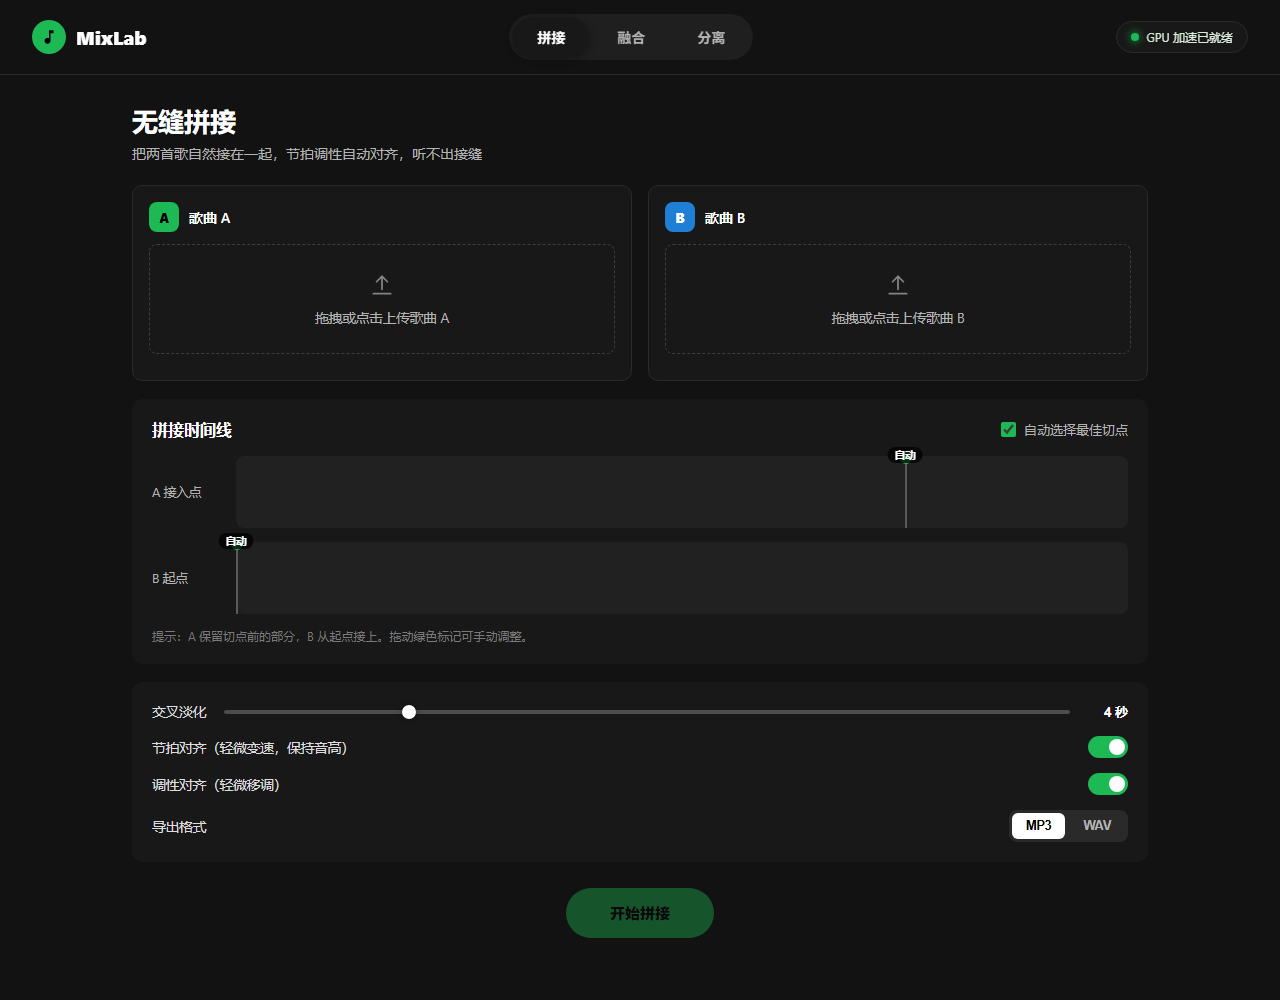
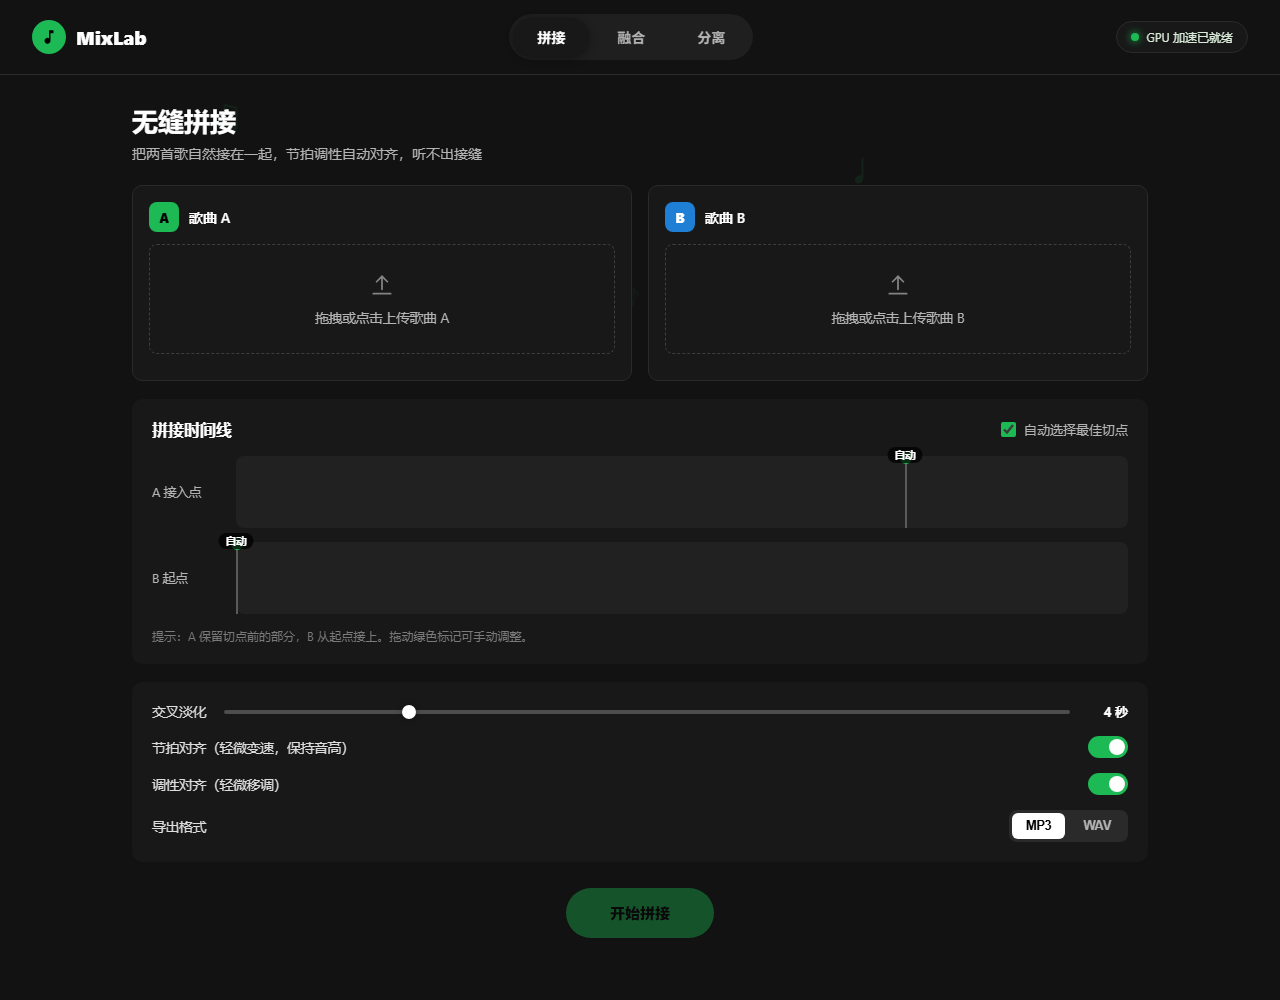
Add ambient lyric bar with 38 Cantonese lyrics and floating music notes

diff --git a/frontend/app.js b/frontend/app.js
@@ -126,6 +126,7 @@ function bindTimelineDrag(canvasId, setter, min, max) {
 
   canvas.addEventListener("mousedown", (e) => {
     if (state.autoCut) return;
+    setBusy(true);
     dragging = true;
     canvas.style.cursor = "grabbing";
     move(e);
@@ -133,6 +134,7 @@ function bindTimelineDrag(canvasId, setter, min, max) {
   window.addEventListener("mousemove", move);
   window.addEventListener("mouseup", () => {
     if (!dragging) return;
+    setBusy(false);
     dragging = false;
     canvas.style.cursor = "crosshair";
   });
@@ -174,6 +176,7 @@ function bindDropzone(slot, ui) {
 }
 
 async function uploadTrack(slot, file) {
+  setBusy(true);
   const fd = new FormData();
   fd.append("file", file);
   try {
@@ -188,6 +191,8 @@ async function uploadTrack(slot, file) {
     updateRunBtns();
   } catch (err) {
     alert(`上传失败：${err.message}`);
+  } finally {
+    setBusy(false);
   }
 }
 
@@ -256,6 +261,7 @@ function bindSepUpload() {
 }
 
 async function uploadSep(file) {
+  setBusy(true);
   const fd = new FormData();
   fd.append("file", file);
   try {
@@ -280,6 +286,8 @@ async function uploadSep(file) {
     updateRunBtns();
   } catch (err) {
     alert(`上传失败：${err.message}`);
+  } finally {
+    setBusy(false);
   }
 }
 
@@ -292,6 +300,7 @@ function updateRunBtns() {
 
 /* ================= 任务轮询 ================= */
 async function runTask(page, endpoint, payload, ui) {
+  setBusy(true);
   state.running[page] = true;
   updateRunBtns();
   $(ui.progress).hidden = false;
@@ -316,6 +325,7 @@ async function runTask(page, endpoint, payload, ui) {
   } finally {
     state.running[page] = false;
     updateRunBtns();
+    setBusy(false);
   }
 }
 
@@ -524,9 +534,151 @@ function init() {
   $("sep-btn").addEventListener("click", runSeparate);
 
   window.addEventListener("resize", redrawAllWaves);
+  window.addEventListener("scroll", () => {
+    const nearBottom = window.innerHeight + window.scrollY > document.body.scrollHeight - 260;
+    document.body.classList.toggle("scrolled-bottom", nearBottom);
+  });
   updateFusionUI();
   updateRunBtns();
   checkHealth();
+  initLyricBg();
+  startLyrics();
+}
+
+/* ================= 背景氛围：歌词 + 音符 ================= */
+
+const LYRICS = [
+  { text: "秋天该很好，你若尚在场。", song: "春夏秋冬" },
+  { text: "尤其这新婚，就像玩牺牲。想过抢新娘，我差点讲真。", song: "不甘心" },
+  { text: "如能忘掉渴望，岁月长，衣裳薄。无论于什么角落，不假设你或会在旁，我也可畅游异国，放心吃喝。", song: "再见二丁目" },
+  { text: "从未跟你饮过冰，零度看风景。", song: "偿还" },
+  { text: "谁人曾照顾过我的感受，待我温柔吻过我伤口。能得到的安慰是失恋者得救后，很感激忠诚的狗。", song: "七友" },
+  { text: "阶砖不会拒绝磨蚀，窗花不可幽禁落霞，有感情就能一生一世吗？", song: "喜帖街" },
+  { text: "你是千堆雪，我是长街，怕日出一到，彼此瓦解。", song: "邮差" },
+  { text: "在有生的瞬间能遇到你，竟花光所有运气。", song: "明年今日" },
+  { text: "留我做个垃圾，长留恋于你家。从沉溺中结疤，再发芽。", song: "垃圾" },
+  { text: "意乱情迷极易流逝，难耐这夜春光浪费。", song: "春光乍泄" },
+  { text: "青春的快餐只要求快不理哪一家，哪有玩味的空档来欣赏细致淡雅。", song: "苦瓜" },
+  { text: "这个世界最坏罪名，叫太易动情，但我喜欢这罪名。", song: "无人之境" },
+  { text: "一起约好过年，缺席人物多于往年，只能齐集仍在的脸，赶快地拍下照片。在最坏时候，懂得吃，舍得穿，不会乱。", song: "小团圆" },
+  { text: "其实我再去爱惜你又有何用，难道这次我抱紧你未必落空。", song: "暗涌" },
+  { text: "难敌这纷扰世态，为理想或求生在捱。没完没了各有需要把青春贱卖，也爱用整晚畅论人家感情最后为何完结的道理。", song: "不吐不快" },
+  { text: "就算经过茫茫悠长岁月也会记住那张脸，明日将告别校园跟你道别时，我怕会暗暗鼻酸。", song: "单恋高校" },
+  { text: "何事落到这收场，枯死在你的手上。", song: "够钟" },
+  { text: "知你曾花心，爱着你很惊心。却又各开心，得我愿意受你所困。我为何肯等个旧人，还错过多少的亲吻。", song: "你知道我在等你们分手吗" },
+  { text: "我间中饮醉酒很喜欢自由，\n常犯错爱说谎但总会内疚，\n遇过很多的损友学到贪新厌旧，\n为何还喜欢我我这种无赖。\n是话你蠢还是很伟大，\n在座每位都将我踩口碑有多坏，\n但你亦永远不见怪。", song: "无赖" },
+  { text: "即使身边世事再毫无道理，与你永远亦连在一起，你不放下我，我不放下你，我想确定每日挽着同样的手臂。", song: "相依为命" },
+  { text: "不介意孤独，比爱你舒服，你是前度，何必听我吠。", song: "献世" },
+  { text: "遥远的她不可以再归家，我在梦里却始终只有她。", song: "遥远的她" },
+  { text: "互相祝福心软之际，或者准我吻下去。我甘于当副车，也是快乐着唏嘘，彼此这么了解，难怪注定似兄妹一对。", song: "钟无艳" },
+  { text: "游客是你，风景是我，无法避免，让你经过。", song: "稀客" },
+  { text: "剪影的你轮廓太好看，凝住眼泪才敢细看。", song: "约定" },
+  { text: "徘徊在似苦又甜之间，望不穿这暧昧的眼，爱或情借来填一晚，终须都归还，无谓多贪。", song: "暧昧" },
+  { text: "让我感谢你，赠我空欢喜，记得要忘记。", song: "花事了" },
+  { text: "我仿似跟你热恋过，和你未似现在这接近，思想开始过份。", song: "梦中人" },
+  { text: "明知爱这种男孩子，也许只能如此，但我会成为你最牵挂的一个女子。朝朝暮暮让你猜想如何驯服我，若果亲手抱住，或者不必如此。", song: "野孩子" },
+  { text: "我就算是拥抱过后回头没海岸，也换来见闻观光。我就算不再相信北极有曙光，行云流水亦爱看。", song: "如果东京不快乐" },
+  { text: "我不止三岁，我当然识趣。", song: "知情识趣" },
+  { text: "想与你开始从头开始，彼此的痛遥远但相似。", song: "有故事的人" },
+  { text: "这一生也在进取，这分钟却挂念谁。", song: "追" },
+  { text: "从眉梢中感觉到，从眼角看不到，彷佛已是最直接的裸露。", song: "有心人" },
+  { text: "能同途偶遇在这星球上，燃亮飘渺人生，我多么够运。无人如你逗留我思潮上，从没再疑问，这个世界好得很。", song: "春夏秋冬" },
+  { text: "为何我心分秒想着过去，为何你一点都不记起，情义已失去恩爱都失去，我却为何偏偏喜欢你。", song: "偏偏喜欢你" },
+  { text: "男女朋友无法迁就，越拖越久越想分手，谁对谁错谁太丑陋，嘈杂场面宁愿退后。", song: "Won't You Stand" },
+  { text: "我没有为你伤春悲秋不配有憾事，你没有共我踏过万里不够剧情延续故事。", song: "春秋" },
+];
+
+const LYRIC_SHOW_MS = 3000;
+let lyricIndex = 0;
+let lyricTimer = null;
+
+function startLyrics() {
+  setTimeout(showLyric, 1200);
+}
+
+function showLyric() {
+  const item = LYRICS[lyricIndex % LYRICS.length];
+  lyricIndex += 1;
+  const bar = $("lyric-bar");
+  bar.classList.remove("show");
+  clearTimeout(lyricTimer);
+  setTimeout(() => {
+    if (document.body.classList.contains("busy")) {
+      // 忙碌时先不打扰，等空闲后再继续
+      lyricTimer = setTimeout(showLyric, LYRIC_SHOW_MS);
+      return;
+    }
+    $("lyric-text").textContent = item.text;
+    $("lyric-song").textContent = `《${item.song}》`;
+    bar.classList.add("show");
+    lyricTimer = setTimeout(() => {
+      bar.classList.remove("show");
+      lyricTimer = setTimeout(showLyric, 400);
+    }, LYRIC_SHOW_MS);
+  }, 400);
+}
+
+let busyCount = 0;
+
+function setBusy(on) {
+  busyCount = Math.max(0, busyCount + (on ? 1 : -1));
+  document.body.classList.toggle("busy", busyCount > 0);
+}
+
+function initLyricBg() {
+  const canvas = $("lyric-bg");
+  if (!canvas) return;
+  const ctx = canvas.getContext("2d");
+  if (!ctx) return;
+  const GLYPHS = ["♪", "♫", "♬", "♩"];
+  let W = 0;
+  let H = 0;
+  const parts = [];
+
+  function resize() {
+    const dpr = window.devicePixelRatio || 1;
+    W = window.innerWidth;
+    H = window.innerHeight;
+    canvas.width = W * dpr;
+    canvas.height = H * dpr;
+    ctx.setTransform(dpr, 0, 0, dpr, 0, 0);
+  }
+
+  function spawn(initial) {
+    return {
+      x: Math.random() * W,
+      y: initial ? Math.random() * H : H + 20 + Math.random() * 100,
+      size: 14 + Math.random() * 24,
+      speed: 0.15 + Math.random() * 0.35,
+      phase: Math.random() * Math.PI * 2,
+      alpha: 0.05 + Math.random() * 0.08,
+      glyph: GLYPHS[Math.floor(Math.random() * GLYPHS.length)],
+    };
+  }
+
+  function tick() {
+    ctx.clearRect(0, 0, W, H);
+    for (let i = 0; i < parts.length; i++) {
+      const p = parts[i];
+      p.y -= p.speed;
+      p.phase += 0.012;
+      const x = p.x + Math.sin(p.phase) * 14;
+      const fadeIn = Math.max(0, Math.min(1, (H - p.y) / 140));
+      const fadeOut = Math.max(0, Math.min(1, (p.y - 24) / 100));
+      ctx.globalAlpha = p.alpha * Math.min(fadeIn, fadeOut);
+      ctx.font = `${p.size}px "Segoe UI Symbol", "Microsoft YaHei", serif`;
+      ctx.fillStyle = "#1db954";
+      ctx.fillText(p.glyph, x, p.y);
+      if (p.y < -30) parts[i] = spawn(false);
+    }
+    ctx.globalAlpha = 1;
+    requestAnimationFrame(tick);
+  }
+
+  resize();
+  window.addEventListener("resize", resize);
+  for (let i = 0; i < 11; i++) parts.push(spawn(true));
+  tick();
 }
 
 init();

diff --git a/frontend/styles.css b/frontend/styles.css
@@ -22,6 +22,18 @@ body {
   -webkit-font-smoothing: antialiased;
 }
 
+/* ---------- 背景音乐氛围层 ---------- */
+#lyric-bg {
+  position: fixed;
+  inset: 0;
+  z-index: 0;
+  pointer-events: none;
+  transition: opacity 0.5s ease;
+}
+
+.container { position: relative; z-index: 1; max-width: 1080px; margin: 0 auto; padding: 28px 32px 70px; }
+.footer { position: relative; z-index: 1; text-align: center; padding: 26px 0 40px; color: #6a6a6a; font-size: 12px; }
+
 /* ---------- 顶部导航 ---------- */
 .topbar {
   position: sticky;
@@ -77,7 +89,6 @@ body {
 .status-chip.err .status-dot { background: var(--danger); }
 
 /* ---------- 布局 ---------- */
-.container { max-width: 1080px; margin: 0 auto; padding: 28px 32px 70px; }
 .page-head { margin-bottom: 22px; }
 .page-head h1 { font-size: 26px; font-weight: 800; }
 .page-head p { color: var(--muted); font-size: 14px; margin-top: 6px; }
@@ -346,7 +357,52 @@ input[type="range"]:disabled { opacity: 0.35; }
 .stem-wave { width: 100%; height: 40px; border-radius: 4px; background: rgba(255,255,255,0.03); }
 .stem-audio { width: 100%; height: 34px; margin-top: 8px; }
 
-.footer { text-align: center; padding: 26px 0 40px; color: #6a6a6a; font-size: 12px; }
+/* ---------- 歌词栏 ---------- */
+#lyric-bar {
+  position: fixed;
+  left: 50%;
+  bottom: 24px;
+  transform: translateX(-50%) translateY(10px);
+  z-index: 40;
+  max-width: min(720px, 90vw);
+  padding: 12px 28px 13px;
+  text-align: center;
+  pointer-events: none;
+  border-radius: 16px;
+  background: rgba(18, 18, 18, 0.62);
+  border: 1px solid rgba(255, 255, 255, 0.09);
+  backdrop-filter: blur(12px);
+  -webkit-backdrop-filter: blur(12px);
+  opacity: 0;
+  transition: opacity 0.45s ease, transform 0.45s ease;
+  box-shadow: 0 8px 32px rgba(0, 0, 0, 0.35);
+}
+#lyric-bar.show {
+  opacity: 1;
+  transform: translateX(-50%) translateY(0);
+}
+.lyric-text {
+  font-size: 14.5px;
+  line-height: 1.7;
+  color: rgba(255, 255, 255, 0.94);
+  white-space: pre-line;
+  letter-spacing: 0.3px;
+  text-shadow: 0 1px 8px rgba(0, 0, 0, 0.6);
+}
+.lyric-song {
+  margin-top: 5px;
+  font-size: 11.5px;
+  color: var(--accent);
+  letter-spacing: 1px;
+  opacity: 0.85;
+}
+
+/* 用户忙碌/操作时，氛围层让位 */
+body.busy #lyric-bar,
+body.busy #lyric-bg,
+body.scrolled-bottom #lyric-bar {
+  opacity: 0.08;
+}
 
 @media (max-width: 860px) {
   .topbar { flex-wrap: wrap; padding: 12px 16px; }

diff --git a/frontend/index.html b/frontend/index.html
@@ -7,6 +7,8 @@
   <link rel="stylesheet" href="styles.css" />
 </head>
 <body>
+  <canvas id="lyric-bg" aria-hidden="true"></canvas>
+
   <nav class="topbar">
     <div class="brand">
       <div class="brand-mark">
@@ -290,6 +292,10 @@
   </main>
 
   <footer class="footer">MixLab · 本地 AI 音乐工作台 · 所有处理都在你的电脑上完成</footer>
+  <div id="lyric-bar" aria-hidden="true">
+    <div class="lyric-text" id="lyric-text"></div>
+    <div class="lyric-song" id="lyric-song"></div>
+  </div>
   <script src="app.js"></script>
 </body>
 </html>
